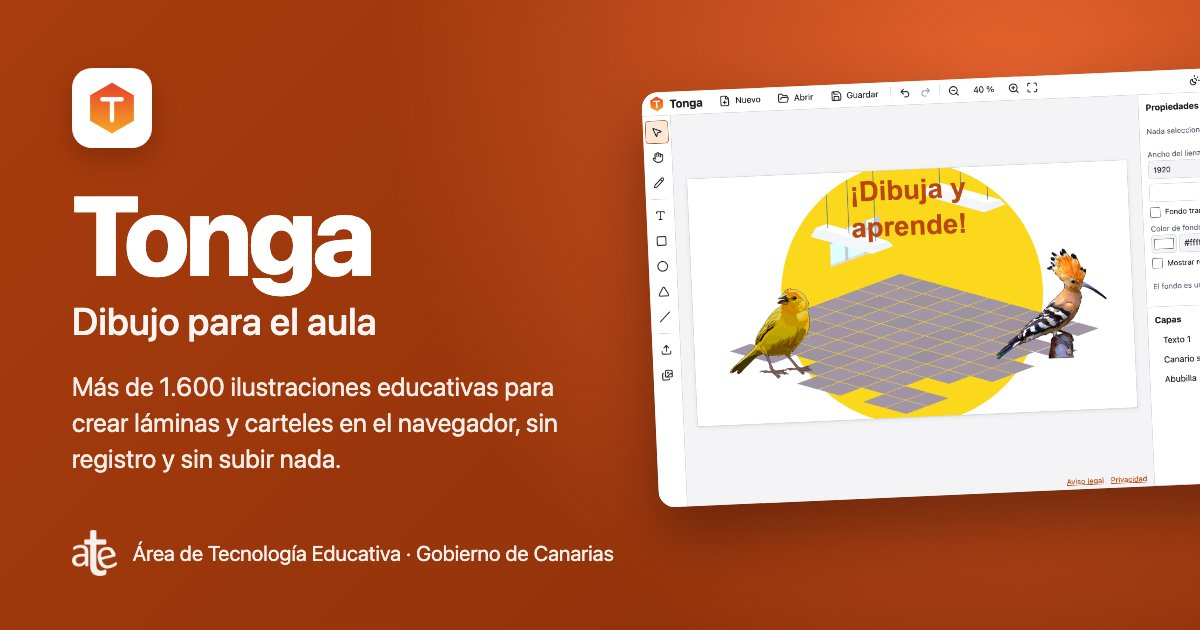
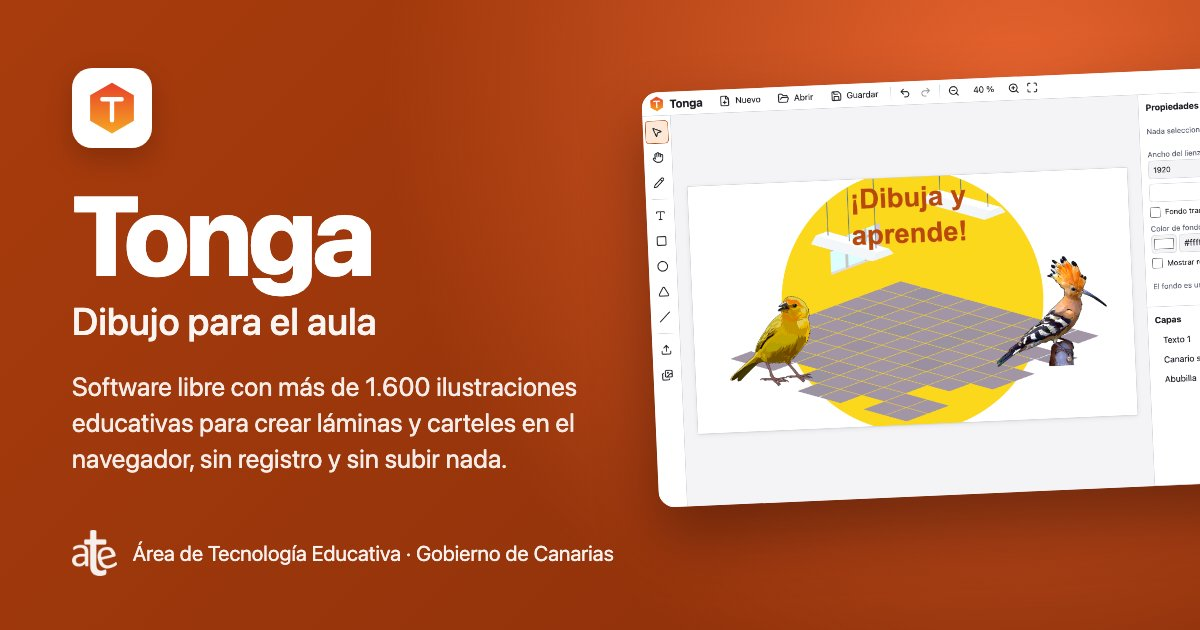
feat: one Help dialog with source link, licences and legal notices (#24)
Help now gathers the keyboard shortcuts, About, the licences (with
links to the licence texts and third-party notices), the legal notice
and privacy policy, and a «Código fuente en GitHub» link with the
GitHub mark (Primer Octicons, MIT). The fixed legal footer is gone:
it took vertical space on phones, and the links stay one tap away
behind the always-visible Help button. The separate About dialog and
button are merged into Help.

Link-preview texts say «software libre» instead of «gratis»: Tonga is
free software from a public administration, there are no payments.

diff --git a/index.html b/index.html
@@ -5,7 +5,7 @@
     <meta name="viewport" content="width=device-width, initial-scale=1" />
     <meta name="color-scheme" content="light dark" />
     <title>Tonga · Dibujo para el aula</title>
-    <meta name="description" content="Dibuja en el aula con más de 1.600 ilustraciones educativas: textos, formas, fondos y exportación a PNG, JPG, SVG y PDF. Gratis, sin registro y sin instalar: funciona en el navegador y nada sale de tu equipo." />
+    <meta name="description" content="Dibuja en el aula con más de 1.600 ilustraciones educativas: textos, formas, fondos y exportación a PNG, JPG, SVG y PDF. Software libre, sin registro y sin instalar: funciona en el navegador y nada sale de tu equipo." />
     <link rel="canonical" href="%VITE_SITE_URL%" />
 
     <!-- Link previews (WhatsApp, Telegram, redes sociales). og:image must be an absolute URL. -->
@@ -14,7 +14,7 @@
     <meta property="og:locale" content="es_ES" />
     <meta property="og:url" content="%VITE_SITE_URL%" />
     <meta property="og:title" content="Tonga · Dibuja y aprende en el aula" />
-    <meta property="og:description" content="Más de 1.600 ilustraciones educativas para crear láminas, carteles y presentaciones. Gratis, sin registro y sin instalar: funciona en el navegador." />
+    <meta property="og:description" content="Más de 1.600 ilustraciones educativas para crear láminas, carteles y presentaciones. Software libre, sin registro y sin instalar: funciona en el navegador." />
     <meta property="og:image" content="%VITE_SITE_URL%og-image.jpg" />
     <meta property="og:image:secure_url" content="%VITE_SITE_URL%og-image.jpg" />
     <meta property="og:image:type" content="image/jpeg" />
@@ -23,7 +23,7 @@
     <meta property="og:image:alt" content="Tonga, dibujo para el aula: logotipo y una captura del editor con un aula de fondo, un canario, una abubilla y el texto «¡Dibuja y aprende!»" />
     <meta name="twitter:card" content="summary_large_image" />
     <meta name="twitter:title" content="Tonga · Dibuja y aprende en el aula" />
-    <meta name="twitter:description" content="Más de 1.600 ilustraciones educativas. Gratis, sin registro y sin instalar." />
+    <meta name="twitter:description" content="Más de 1.600 ilustraciones educativas. Software libre, sin registro y sin instalar." />
     <meta name="twitter:image" content="%VITE_SITE_URL%og-image.jpg" />
     <link rel="icon" href="./favicon.svg" type="image/svg+xml" />
     <link rel="manifest" href="./manifest.webmanifest" />
@@ -56,8 +56,7 @@
         </div>
         <span class="spacer"></span>
         <button type="button" class="btn icon-only" data-action="theme" data-icon="sunMoon" aria-label="Cambiar tema claro u oscuro" aria-pressed="false" title="Tema"></button>
-        <button type="button" class="btn icon-only" data-action="help" data-icon="circleHelp" aria-label="Ayuda y atajos" title="Ayuda"></button>
-        <button type="button" class="btn icon-only" data-action="about" data-icon="info" aria-label="Acerca de Tonga y licencias" title="Acerca de"></button>
+        <button type="button" class="btn icon-only" data-action="help" data-icon="circleHelp" aria-label="Ayuda, licencias y aviso legal" title="Ayuda, licencias y aviso legal"></button>
         <button type="button" class="btn primary" data-action="export" data-icon="download"><span class="label">Exportar</span></button>
       </nav>
     </header>
@@ -198,45 +197,61 @@
       </form>
     </dialog>
 
-    <!-- Help -->
-    <dialog id="dlg-help" class="dialog" aria-labelledby="dlg-help-title">
+    <!-- Help, about, licences and legal (one place, nothing fixed on screen) -->
+    <dialog id="dlg-help" class="dialog dialog-help" aria-labelledby="dlg-help-title">
       <div class="dialog-body">
-        <h2 id="dlg-help-title">Ayuda</h2>
+        <header class="dialog-head">
+          <h2 id="dlg-help-title">Ayuda</h2>
+          <button type="button" class="btn icon-only" data-close data-icon="x" aria-label="Cerrar la ayuda"></button>
+        </header>
         <p>Crea un dibujo, añade textos, formas e imágenes de la biblioteca, y exporta el resultado. Tonga funciona en tu navegador: <strong>nada sale de tu equipo</strong>. Para continuar otro día, usa <em>Guardar</em> (fichero <code>.tonga</code>).</p>
-        <h3>Atajos de teclado</h3>
-        <table class="shortcuts">
-          <tbody>
-            <tr><th scope="row"><kbd>Ctrl</kbd>/<kbd>⌘</kbd> + <kbd>Z</kbd></th><td>Deshacer</td></tr>
-            <tr><th scope="row"><kbd>Ctrl</kbd>/<kbd>⌘</kbd> + <kbd>Shift</kbd> + <kbd>Z</kbd> · <kbd>Ctrl</kbd> + <kbd>Y</kbd></th><td>Rehacer</td></tr>
-            <tr><th scope="row"><kbd>Ctrl</kbd>/<kbd>⌘</kbd> + <kbd>C</kbd> / <kbd>V</kbd></th><td>Copiar / pegar</td></tr>
-            <tr><th scope="row"><kbd>Ctrl</kbd>/<kbd>⌘</kbd> + <kbd>D</kbd></th><td>Duplicar</td></tr>
-            <tr><th scope="row"><kbd>Ctrl</kbd>/<kbd>⌘</kbd> + <kbd>A</kbd></th><td>Seleccionar todo</td></tr>
-            <tr><th scope="row"><kbd>Supr</kbd> · <kbd>Retroceso</kbd></th><td>Borrar la selección</td></tr>
-            <tr><th scope="row"><kbd>Esc</kbd></th><td>Quitar la selección</td></tr>
-            <tr><th scope="row">Flechas · <kbd>Shift</kbd> + flechas</th><td>Mover 1 px · 10 px</td></tr>
-            <tr><th scope="row"><kbd>+</kbd> / <kbd>-</kbd> · <kbd>0</kbd> · <kbd>1</kbd></th><td>Zoom · ajustar · 100 %</td></tr>
-            <tr><th scope="row"><kbd>V</kbd> <kbd>H</kbd> <kbd>B</kbd></th><td>Seleccionar · mover la vista · dibujo libre</td></tr>
-            <tr><th scope="row"><kbd>T</kbd> <kbd>R</kbd> <kbd>E</kbd> <kbd>L</kbd> <kbd>I</kbd> <kbd>K</kbd></th><td>Texto · rectángulo · elipse · línea · imagen · biblioteca</td></tr>
-          </tbody>
-        </table>
-        <p class="muted">Los atajos no actúan mientras escribes en un campo de texto. Con el teclado, el panel <em>Capas</em> permite elegir cada objeto, y <em>Propiedades</em>, cambiar su posición, tamaño, giro y colores. El dibujo libre necesita ratón, lápiz o dedo.</p>
-        <div class="dialog-actions"><span class="spacer"></span><button type="button" class="btn primary" data-close>Cerrar</button></div>
-      </div>
-    </dialog>
+        <p class="help-links">
+          <a class="btn link-btn" data-icon="github" href="https://github.com/ateeducacion/tonga" rel="noopener noreferrer" target="_blank">Código fuente en GitHub<span class="visually-hidden"> (se abre en otra pestaña)</span></a>
+        </p>
 
-    <!-- About -->
-    <dialog id="dlg-about" class="dialog" aria-labelledby="dlg-about-title">
-      <div class="dialog-body">
-        <h2 id="dlg-about-title">Acerca de Tonga</h2>
-        <p>Versión <span id="about-version"></span>. Aplicación de dibujo para el aula promovida por el Gobierno de Canarias. Desarrollo original de Altia; mantenimiento del Área de Tecnología Educativa (ATE).</p>
-        <h3>Licencias</h3>
-        <ul>
-          <li><strong>Software:</strong> GNU Affero General Public License, versión 3 o posterior (AGPL-3.0-or-later; ver <code>LICENSE</code>).</li>
-          <li><strong>Imágenes de la biblioteca:</strong> © Gobierno de Canarias, Creative Commons Reconocimiento-NoComercial-CompartirIgual 4.0 Internacional (CC BY-NC-SA 4.0), salvo que se indique otra cosa.</li>
-          <li><strong>Componentes de terceros:</strong> Fabric.js (MIT), iconos Lucide (ISC; parte de Feather, MIT). Detalle en <code>THIRD_PARTY_NOTICES.md</code>.</li>
-        </ul>
-        <p><a href="https://github.com/ateeducacion/tonga" rel="noopener noreferrer" target="_blank">Código fuente</a> · <a href="https://www.gobiernodecanarias.org/principal/avisolegal.html" rel="noopener noreferrer" target="_blank">Aviso legal</a> · <a href="https://www.gobiernodecanarias.org/eucd/politica_privacidad/" rel="noopener noreferrer" target="_blank">Política de privacidad</a></p>
-        <p class="muted">Privacidad: Tonga no usa analítica ni servicios externos. Tus dibujos se procesan y se guardan solo en este navegador.</p>
+        <details class="help-section" open>
+          <summary><h3>Atajos de teclado</h3></summary>
+          <table class="shortcuts">
+            <tbody>
+              <tr><th scope="row"><kbd>Ctrl</kbd>/<kbd>⌘</kbd> + <kbd>Z</kbd></th><td>Deshacer</td></tr>
+              <tr><th scope="row"><kbd>Ctrl</kbd>/<kbd>⌘</kbd> + <kbd>Shift</kbd> + <kbd>Z</kbd> · <kbd>Ctrl</kbd> + <kbd>Y</kbd></th><td>Rehacer</td></tr>
+              <tr><th scope="row"><kbd>Ctrl</kbd>/<kbd>⌘</kbd> + <kbd>C</kbd> / <kbd>V</kbd></th><td>Copiar / pegar</td></tr>
+              <tr><th scope="row"><kbd>Ctrl</kbd>/<kbd>⌘</kbd> + <kbd>D</kbd></th><td>Duplicar</td></tr>
+              <tr><th scope="row"><kbd>Ctrl</kbd>/<kbd>⌘</kbd> + <kbd>A</kbd></th><td>Seleccionar todo</td></tr>
+              <tr><th scope="row"><kbd>Supr</kbd> · <kbd>Retroceso</kbd></th><td>Borrar la selección</td></tr>
+              <tr><th scope="row"><kbd>Esc</kbd></th><td>Quitar la selección</td></tr>
+              <tr><th scope="row">Flechas · <kbd>Shift</kbd> + flechas</th><td>Mover 1 px · 10 px</td></tr>
+              <tr><th scope="row"><kbd>+</kbd> / <kbd>-</kbd> · <kbd>0</kbd> · <kbd>1</kbd></th><td>Zoom · ajustar · 100 %</td></tr>
+              <tr><th scope="row"><kbd>V</kbd> <kbd>H</kbd> <kbd>B</kbd></th><td>Seleccionar · mover la vista · dibujo libre</td></tr>
+              <tr><th scope="row"><kbd>T</kbd> <kbd>R</kbd> <kbd>E</kbd> <kbd>L</kbd> <kbd>I</kbd> <kbd>K</kbd></th><td>Texto · rectángulo · elipse · línea · imagen · biblioteca</td></tr>
+            </tbody>
+          </table>
+          <p class="muted">Los atajos no actúan mientras escribes en un campo de texto. Con el teclado, el panel <em>Capas</em> permite elegir cada objeto, y <em>Propiedades</em>, cambiar su posición, tamaño, giro, colores, recorte y ajustes de imagen. El dibujo libre necesita ratón, lápiz o dedo.</p>
+        </details>
+
+        <details class="help-section">
+          <summary><h3>Acerca de Tonga</h3></summary>
+          <p>Versión <span id="about-version"></span>. Aplicación de dibujo para el aula promovida por el Gobierno de Canarias. Desarrollo original de Altia; mantenimiento y versión 2 del Área de Tecnología Educativa (ATE).</p>
+        </details>
+
+        <details class="help-section">
+          <summary><h3>Licencias</h3></summary>
+          <ul class="license-list">
+            <li><strong>Software:</strong> GNU Affero General Public License, versión 3 o posterior (AGPL-3.0-or-later). <a href="https://github.com/ateeducacion/tonga/blob/main/LICENSE" rel="noopener noreferrer" target="_blank">Texto de la licencia</a>.</li>
+            <li><strong>Imágenes de la biblioteca:</strong> © Gobierno de Canarias, Creative Commons Reconocimiento-NoComercial-CompartirIgual 4.0 Internacional (<a href="https://creativecommons.org/licenses/by-nc-sa/4.0/deed.es" rel="noopener noreferrer" target="_blank">CC BY-NC-SA 4.0</a>): puedes usarlas y compartirlas citando la fuente, con la misma licencia y sin fines comerciales.</li>
+            <li><strong>Componentes de terceros:</strong> Fabric.js (MIT), iconos Lucide (ISC; parte de Feather, MIT) e icono de GitHub de Primer Octicons (MIT). <a href="https://github.com/ateeducacion/tonga/blob/main/THIRD_PARTY_NOTICES.md" rel="noopener noreferrer" target="_blank">Avisos de terceros</a>.</li>
+          </ul>
+        </details>
+
+        <details class="help-section">
+          <summary><h3>Aviso legal y privacidad</h3></summary>
+          <p>Tonga no usa analítica, cookies ni servicios externos. Tus dibujos se procesan y se guardan solo en este navegador.</p>
+          <p class="help-links">
+            <a class="btn link-btn" data-icon="scale" href="https://www.gobiernodecanarias.org/principal/avisolegal.html" rel="noopener noreferrer" target="_blank">Aviso legal<span class="visually-hidden"> (se abre en otra pestaña)</span></a>
+            <a class="btn link-btn" data-icon="shieldCheck" href="https://www.gobiernodecanarias.org/eucd/politica_privacidad/" rel="noopener noreferrer" target="_blank">Política de privacidad<span class="visually-hidden"> (se abre en otra pestaña)</span></a>
+          </p>
+        </details>
+
         <div class="dialog-actions"><span class="spacer"></span><button type="button" class="btn primary" data-close>Cerrar</button></div>
       </div>
     </dialog>
@@ -254,11 +269,6 @@
         </div>
       </form>
     </dialog>
-
-    <footer class="legal">
-      <a href="https://www.gobiernodecanarias.org/principal/avisolegal.html" rel="noopener noreferrer" target="_blank">Aviso legal</a>
-      <a href="https://www.gobiernodecanarias.org/eucd/politica_privacidad/" rel="noopener noreferrer" target="_blank">Privacidad</a>
-    </footer>
 
     <script type="module" src="./src/main.ts"></script>
   </body>

diff --git a/src/ui/icons.ts b/src/ui/icons.ts
@@ -1,5 +1,7 @@
 // Lucide icons v1.50.0 (https://lucide.dev), ISC License, Copyright (c) 2026 Lucide Icons and Contributors.
 // Some are derived from Feather (MIT, Copyright (c) 2013-present Cole Bemis). Full notices: THIRD_PARTY_NOTICES.md.
+// The GitHub mark is Primer Octicons 19.38.0 (mark-github-24, https://github.com/primer/octicons),
+// MIT License, Copyright (c) GitHub Inc.; it is a filled glyph, so its path sets fill itself.
 // Only the icons Tonga uses are copied here, as the inner markup of a 24x24 stroked SVG.
 
 export const ICONS = {
@@ -53,6 +55,11 @@ export const ICONS = {
   clipboardPaste: '<svg class="lucide lucide-clipboard-paste" xmlns="http://www.w3.org/2000/svg" width="24" height="24" viewBox="0 0 24 24" fill="none" stroke="currentColor" stroke-width="2" stroke-linecap="round" stroke-linejoin="round" > <path d="M11 14h10"/> <path d="M16 4h2a2 2 0 0 1 2 2v1.344"/> <path d="m17 18 4-4-4-4"/> <path d="M8 4H6a2 2 0 0 0-2 2v14a2 2 0 0 0 2 2h12a2 2 0 0 0 1.793-1.113"/> <rect x="8" y="2" width="8" height="4" rx="1"/>',
   upload: '<svg class="lucide lucide-upload" xmlns="http://www.w3.org/2000/svg" width="24" height="24" viewBox="0 0 24 24" fill="none" stroke="currentColor" stroke-width="2" stroke-linecap="round" stroke-linejoin="round" > <path d="M12 3v12"/> <path d="m17 8-5-5-5 5"/> <path d="M21 15v4a2 2 0 0 1-2 2H5a2 2 0 0 1-2-2v-4"/>',
   grid3x3: '<svg class="lucide lucide-grid-3x3" xmlns="http://www.w3.org/2000/svg" width="24" height="24" viewBox="0 0 24 24" fill="none" stroke="currentColor" stroke-width="2" stroke-linecap="round" stroke-linejoin="round" > <rect width="18" height="18" x="3" y="3" rx="2"/> <path d="M3 9h18"/> <path d="M3 15h18"/> <path d="M9 3v18"/> <path d="M15 3v18"/>',
+  scale: '<path d="M12 3v18"/> <path d="m19 8 3 8a5 5 0 0 1-6 0zV7"/> <path d="M3 7h1a17 17 0 0 0 8-2 17 17 0 0 0 8 2h1"/> <path d="m5 8 3 8a5 5 0 0 1-6 0zV7"/> <path d="M7 21h10"/>',
+  shieldCheck: '<path d="M20 13c0 5-3.5 7.5-7.66 8.95a1 1 0 0 1-.67-.01C7.5 20.5 4 18 4 13V6a1 1 0 0 1 1-1c2 0 4.5-1.2 6.24-2.72a1.17 1.17 0 0 1 1.52 0C14.51 3.81 17 5 19 5a1 1 0 0 1 1 1z"/> <path d="m9 12 2 2 4-4"/>',
+  externalLink: '<path d="M15 3h6v6"/> <path d="M10 14 21 3"/> <path d="M18 13v6a2 2 0 0 1-2 2H5a2 2 0 0 1-2-2V8a2 2 0 0 1 2-2h6"/>',
+  fileText: '<path d="M6 22a2 2 0 0 1-2-2V4a2 2 0 0 1 2-2h8a2.4 2.4 0 0 1 1.704.706l3.588 3.588A2.4 2.4 0 0 1 20 8v12a2 2 0 0 1-2 2z"/> <path d="M14 2v5a1 1 0 0 0 1 1h5"/> <path d="M10 9H8"/> <path d="M16 13H8"/> <path d="M16 17H8"/>',
+  github: '<path fill="currentColor" stroke="none" d="M10.226 17.284c-2.965-.36-5.054-2.493-5.054-5.256 0-1.123.404-2.336 1.078-3.144-.292-.741-.247-2.314.09-2.965.898-.112 2.111.36 2.83 1.01.853-.269 1.752-.404 2.853-.404 1.1 0 1.999.135 2.807.382.696-.629 1.932-1.1 2.83-.988.315.606.36 2.179.067 2.942.72.854 1.101 2 1.101 3.167 0 2.763-2.089 4.852-5.098 5.234.763.494 1.28 1.572 1.28 2.807v2.336c0 .674.561 1.056 1.235.786 4.066-1.55 7.255-5.615 7.255-10.646C23.5 6.188 18.334 1 11.978 1 5.62 1 .5 6.188.5 12.545c0 4.986 3.167 9.12 7.435 10.669.606.225 1.19-.18 1.19-.786V20.63a2.9 2.9 0 0 1-1.078.224c-1.483 0-2.359-.808-2.987-2.313-.247-.607-.517-.966-1.034-1.033-.27-.023-.359-.135-.359-.27 0-.27.45-.471.898-.471.652 0 1.213.404 1.797 1.235.45.651.921.943 1.483.943.561 0 .92-.202 1.437-.719.382-.381.674-.718.944-.943"/>',
 } as const;
 
 export type IconName = keyof typeof ICONS;

diff --git a/src/styles/app.css b/src/styles/app.css
@@ -19,8 +19,7 @@ body {
   display: grid;
   grid-template:
     'top top top' auto
-    'tools work panel' 1fr
-    'tools legal panel' auto / auto 1fr 320px;
+    'tools work panel' 1fr / auto 1fr 320px;
   overflow: hidden;
   accent-color: var(--color-accent);
 }
@@ -265,16 +264,6 @@ h3 {
   cursor: grab !important;
 }
 
-.legal {
-  grid-area: legal;
-  display: flex;
-  gap: var(--space-3);
-  justify-content: flex-end;
-  padding: var(--space-1) var(--space-3);
-  font-size: var(--font-size-sm);
-}
-
-.legal a,
 .dialog a {
   color: var(--color-accent);
 }
@@ -571,6 +560,48 @@ kbd {
   background: var(--color-surface-2);
 }
 
+.dialog-head {
+  display: flex;
+  align-items: center;
+  justify-content: space-between;
+  gap: var(--space-2);
+}
+
+.help-links {
+  display: flex;
+  flex-wrap: wrap;
+  gap: var(--space-2);
+  margin: 0;
+}
+
+.dialog a.link-btn {
+  color: var(--color-text);
+  border-color: var(--color-border);
+  text-decoration: none;
+}
+
+.help-section {
+  border-top: 1px solid var(--color-border);
+  padding-top: var(--space-2);
+}
+
+.help-section > summary {
+  cursor: pointer;
+  list-style-position: outside;
+  margin-inline-start: var(--space-4);
+}
+
+.help-section > summary h3 {
+  display: inline;
+  margin: 0;
+}
+
+.license-list {
+  padding-inline-start: var(--space-4);
+  display: grid;
+  gap: var(--space-2);
+}
+
 .confirm-preview {
   max-width: 100%;
   max-height: 200px;
@@ -705,8 +736,7 @@ kbd {
     grid-template:
       'top' auto
       'work' 1fr
-      'tools' auto
-      'legal' auto / 1fr;
+      'tools' auto / 1fr;
   }
 
   .brand-name {
@@ -795,7 +825,6 @@ kbd {
 
   .zoom [data-action='zoom-in'],
   .zoom [data-action='zoom-out'],
-  .topbar [data-action='about'],
   .topbar [data-action='theme'],
   .topbar .divider {
     display: none;

diff --git a/e2e/app/critical.spec.ts b/e2e/app/critical.spec.ts
@@ -218,3 +218,19 @@ test('crops and adjusts an image from the inspector, undoably', async ({ page })
   await expect(image.getByLabel('Escala de grises')).not.toBeChecked();
   await expect(inspector(page).getByLabel('Ancho', { exact: true })).toHaveValue(String(width));
 });
+
+test('help gathers the source code link, licences and legal notices; nothing is pinned to the screen (RULE-099/111)', async ({ page }) => {
+  await newDrawing(page);
+  await expect(page.locator('body > footer')).toHaveCount(0);
+  await page.getByRole('button', { name: 'Ayuda, licencias y aviso legal' }).click();
+  const help = page.getByRole('dialog', { name: 'Ayuda' });
+  await expect(help.getByRole('link', { name: /Código fuente en GitHub/ })).toHaveAttribute('href', 'https://github.com/ateeducacion/tonga');
+  await help.getByText('Licencias', { exact: true }).click();
+  await expect(help.getByText(/AGPL-3.0-or-later/)).toBeVisible();
+  await expect(help.getByRole('link', { name: 'CC BY-NC-SA 4.0' })).toBeVisible();
+  await help.getByText('Aviso legal y privacidad', { exact: true }).click();
+  await expect(help.getByRole('link', { name: /Aviso legal/ })).toHaveAttribute('href', /gobiernodecanarias\.org/);
+  await expect(help.getByRole('link', { name: /Política de privacidad/ })).toHaveAttribute('rel', 'noopener noreferrer');
+  await help.getByText('Acerca de Tonga', { exact: true }).click();
+  await expect(help.getByText(/Versión \d+\.\d+\.\d+/)).toBeVisible();
+});

diff --git a/e2e/app/a11y.spec.ts b/e2e/app/a11y.spec.ts
@@ -33,7 +33,7 @@ test('export and help dialogs', async ({ page }) => {
   await page.getByRole('button', { name: 'Exportar' }).click();
   expect(await audit(page)).toEqual([]);
   await page.keyboard.press('Escape');
-  await page.getByRole('button', { name: 'Ayuda y atajos' }).click();
+  await page.getByRole('button', { name: 'Ayuda, licencias y aviso legal' }).click();
   expect(await audit(page)).toEqual([]);
 });
 

diff --git a/src/app/app.ts b/src/app/app.ts
@@ -325,7 +325,6 @@ export class App {
       'zoom-fit': () => this.zoomFit(),
       theme: () => this.toggleTheme(),
       help: () => openDialog(byId<HTMLDialogElement>('dlg-help')),
-      about: () => openDialog(byId<HTMLDialogElement>('dlg-about')),
       export: () => this.openExport(),
       import: () => byId<HTMLInputElement>('file-image').click(),
       library: () => this.library.open(),

diff --git a/THIRD_PARTY_NOTICES.md b/THIRD_PARTY_NOTICES.md
@@ -6,6 +6,7 @@ Componentes de terceros que **se distribuyen** con Tonga (están dentro de `dist
 |---|---|---|---|---|
 | Fabric.js | 7.4.0 | Motor del lienzo (incluido en el bundle JS) | MIT | https://github.com/fabricjs/fabric.js |
 | Lucide | 1.50.0 (lucide-static) | 50 iconos copiados como SVG en `src/ui/icons.ts` | ISC; parte derivada de Feather, MIT | https://github.com/lucide-icons/lucide |
+| Primer Octicons | 19.38.0 | Icono `mark-github` en `src/ui/icons.ts` | MIT, © GitHub Inc. | https://github.com/primer/octicons |
 | Imágenes de `repositorios/` | — | Biblioteca de imágenes | CC BY-NC-SA 4.0, © Gobierno de Canarias | Créditos originales (rama `upstream`, `creditos.html`) |
 
 Ningún código de TOAST UI Image Editor, jQuery, jQuery UI, axios, FileSaver, X2JS, jsPDF ni de la extensión `customiseControls` forma parte de esta versión: se usaron solo en la versión original (rama `upstream`).

diff --git a/CHANGELOG.md b/CHANGELOG.md
@@ -11,6 +11,8 @@ Todos los cambios relevantes se documentan aquí, con el formato de [Keep a Chan
 ### Cambiado
 
 - Licencia del software declarada como `AGPL-3.0-or-later` (GNU AGPL v3 o posterior).
+- La Ayuda reúne los atajos, «Acerca de», las licencias, el aviso legal, la privacidad y el enlace al código en GitHub. Desaparece el pie fijo con los enlaces legales, que quitaba sitio en móvil.
+- Las descripciones para compartir dicen «software libre» en lugar de «gratis».
 
 ## [2.1.0] - 2026-10-02
 
